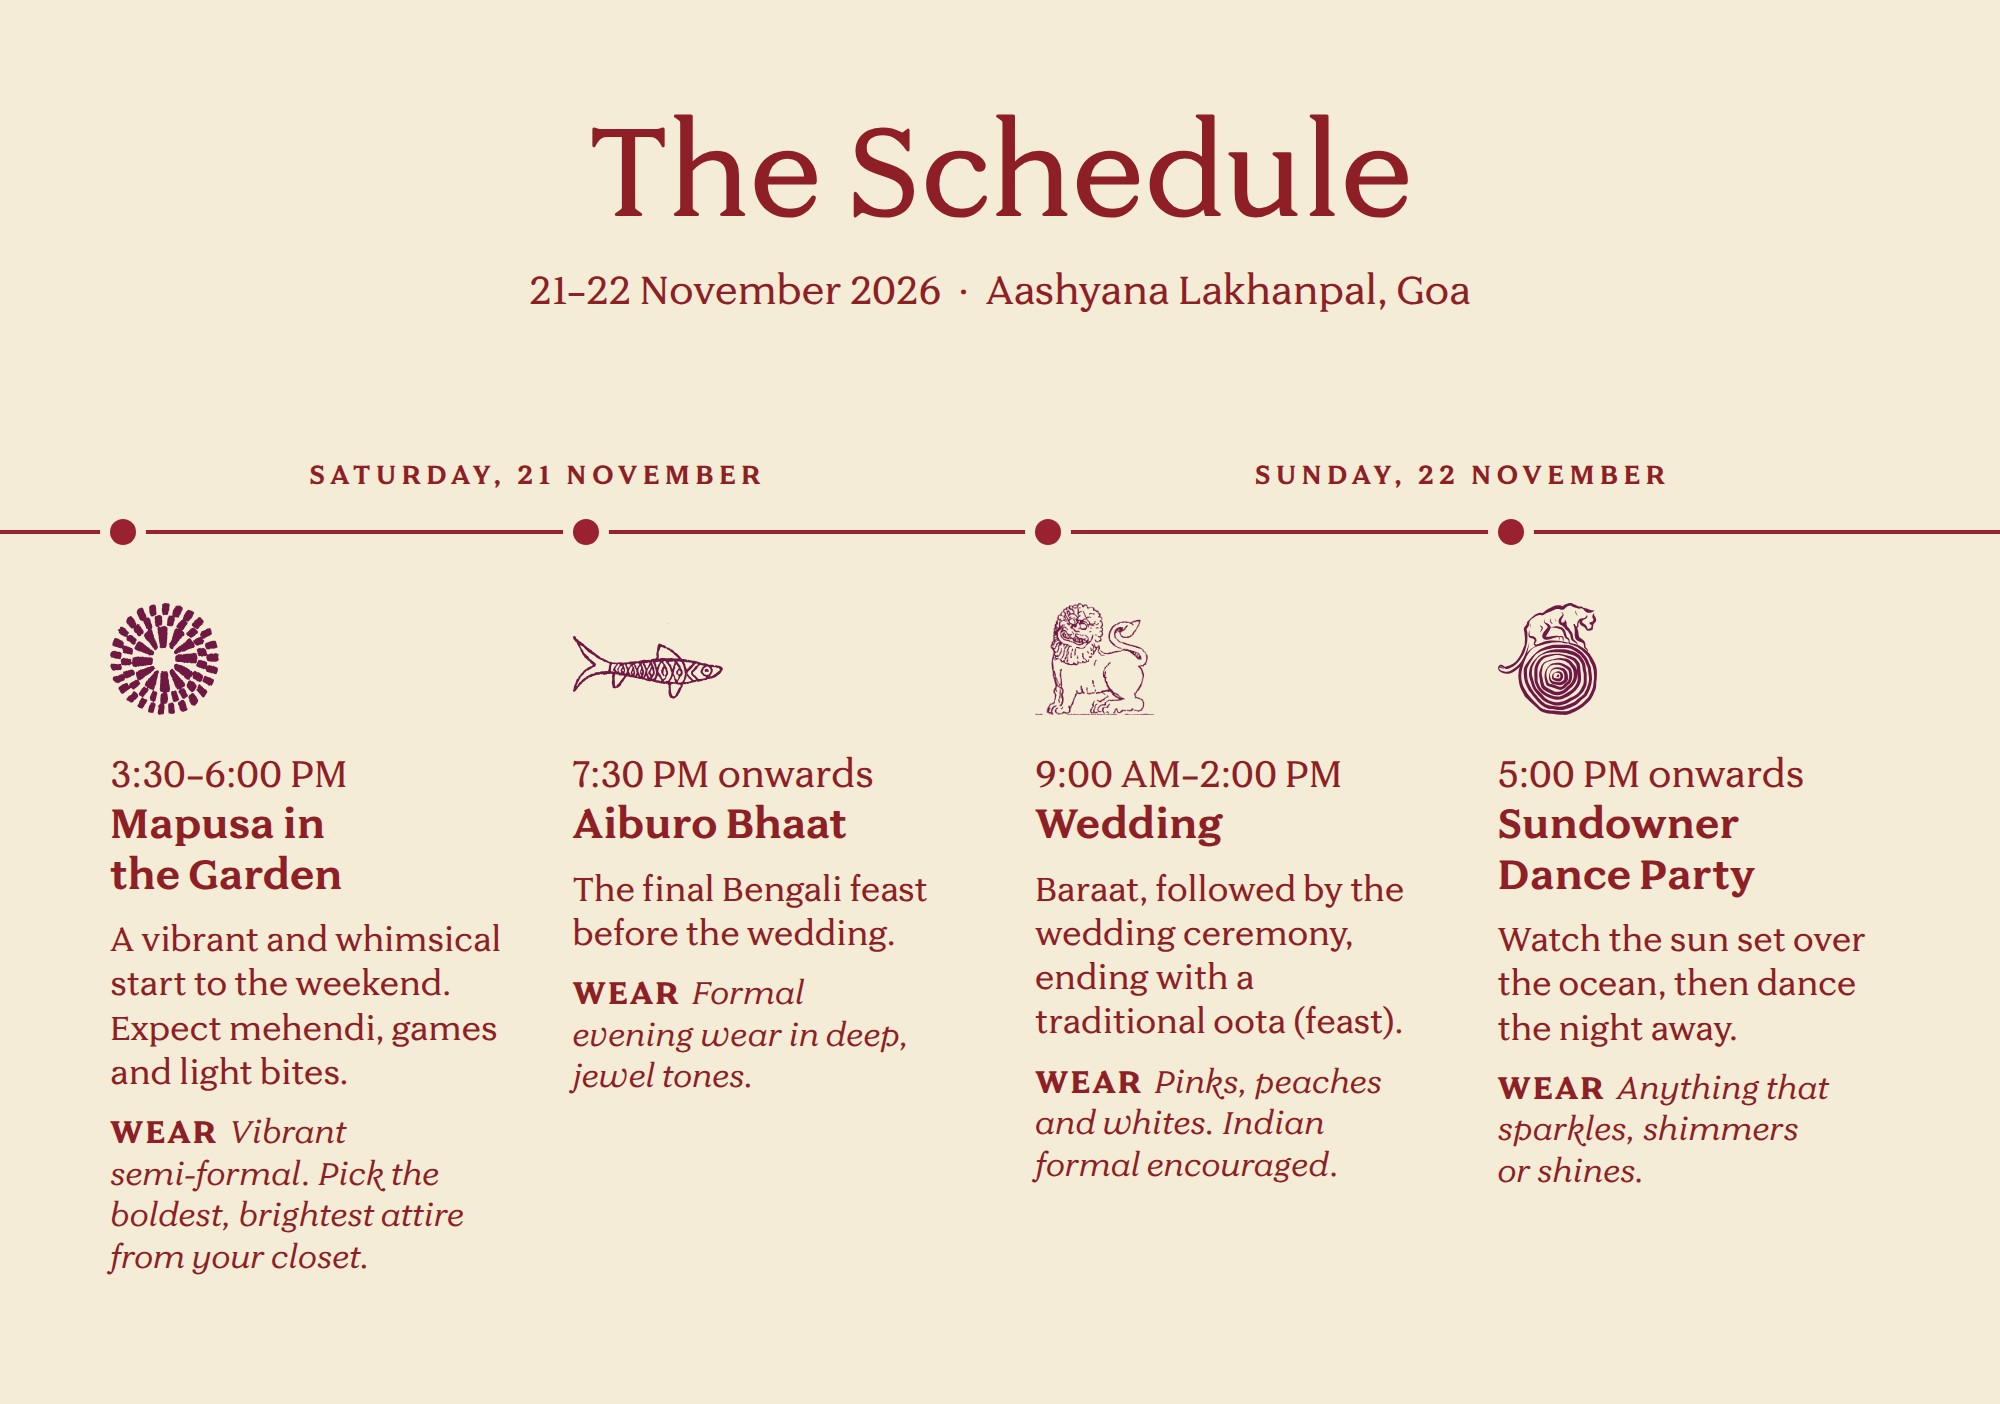
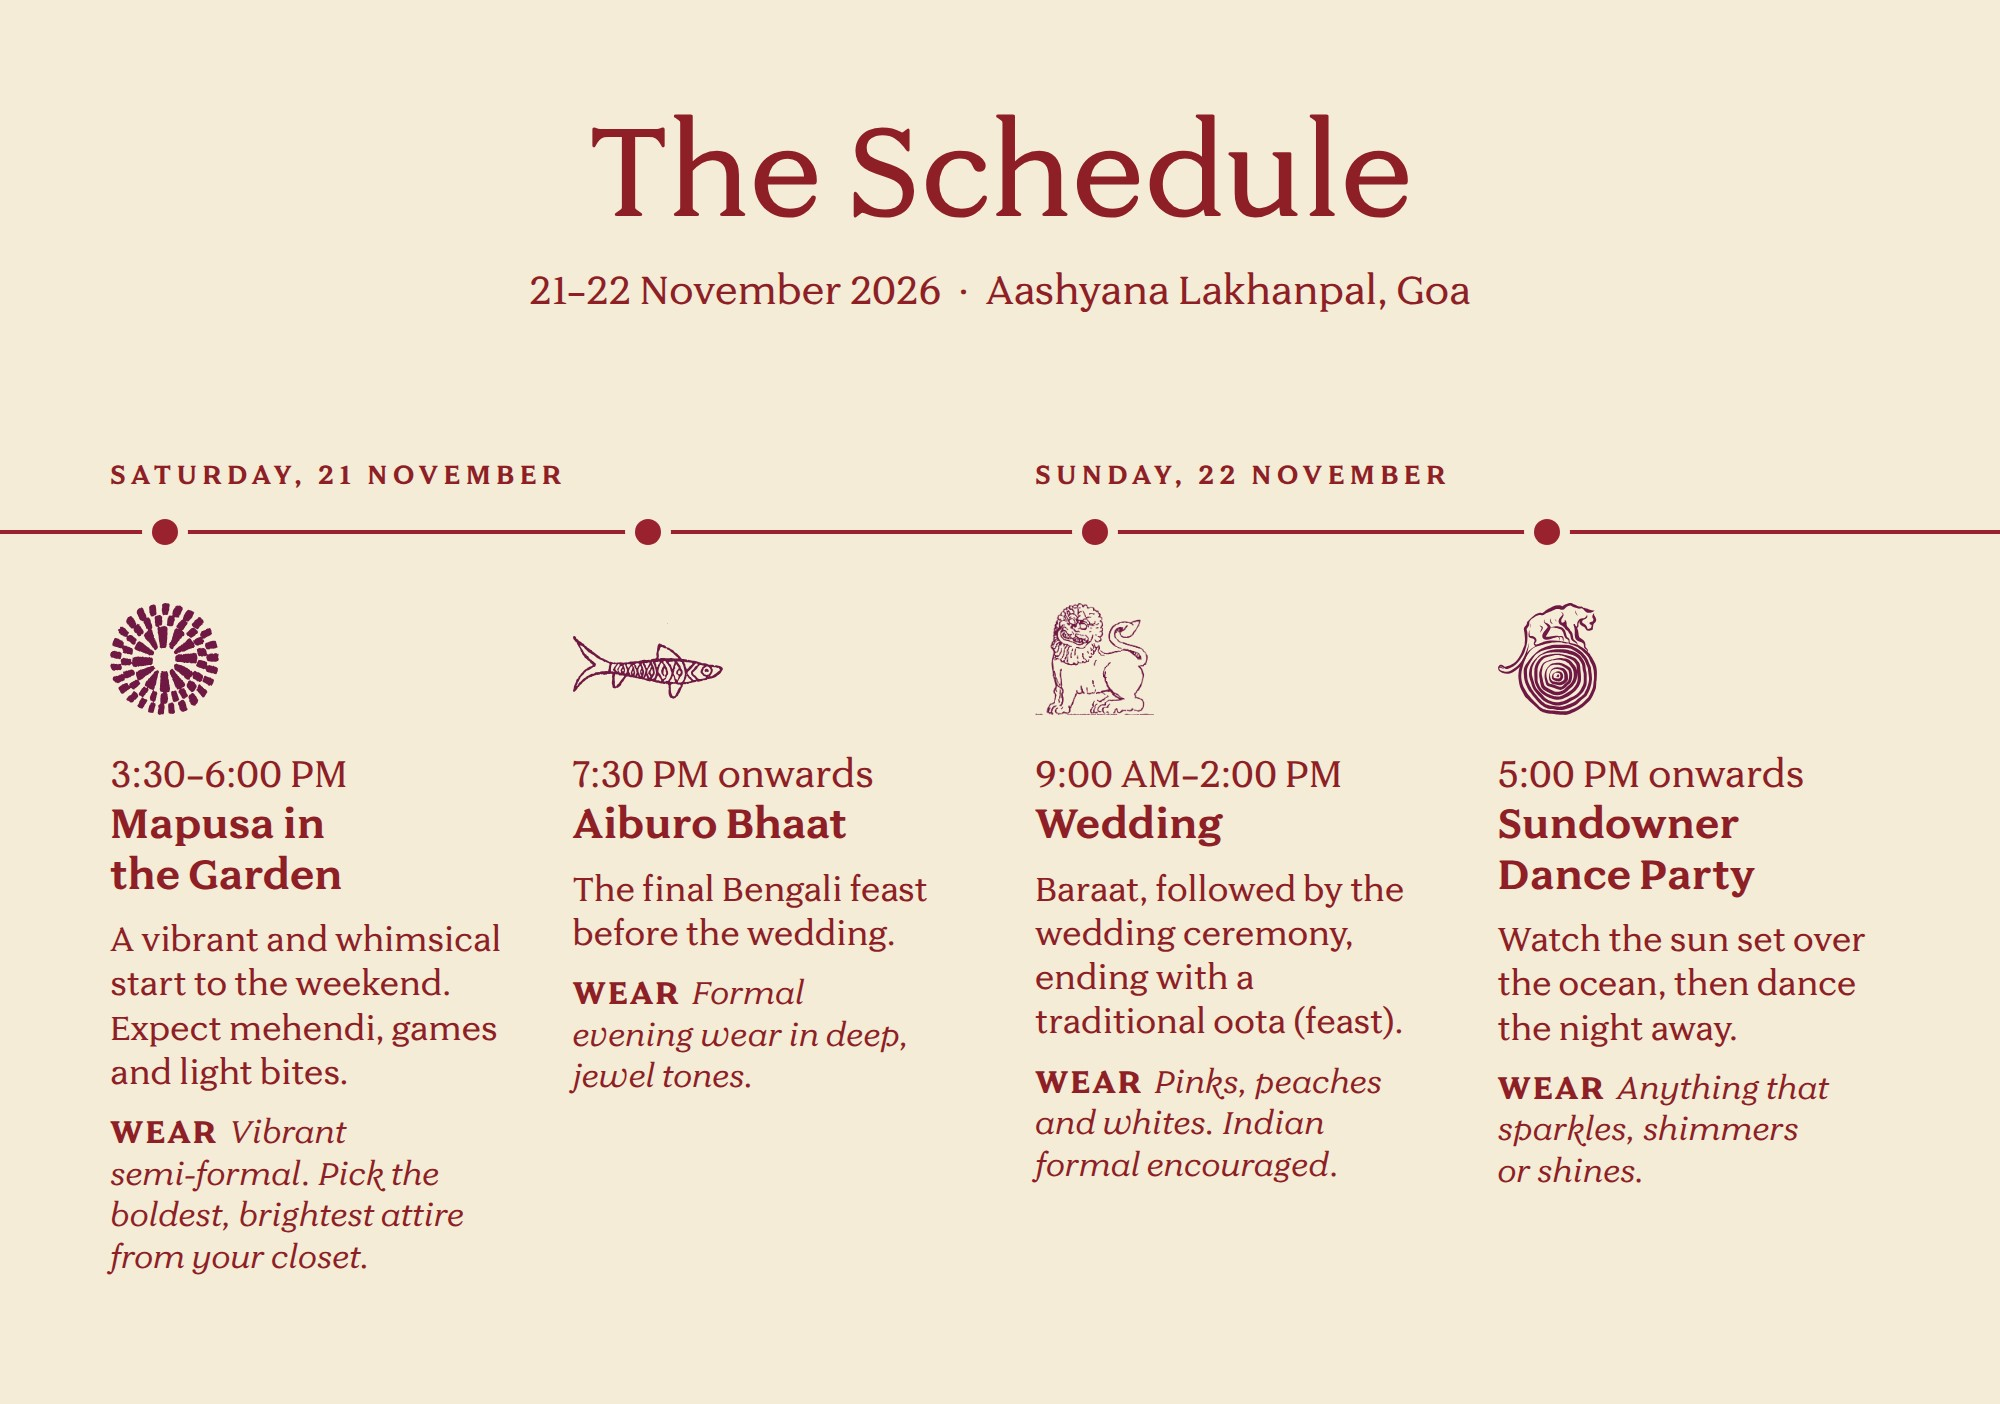
Left-align v3b's day headings and centre each dot on its motif
The Saturday and Sunday headings now start at the left edge of their
first event column. Each dot shares a marker with its motif, whose box
is sized to the artwork, so the dot sits over the motif's middle.

Claude-Session: https://claude.ai/code/session_01M927iqGqXpH2N1bkdGR9p5

diff --git a/design/schedule-card/v3b.html b/design/schedule-card/v3b.html
@@ -29,7 +29,6 @@
       display: grid;
       grid-template-columns: 1fr 1fr;
       column-gap: 70px;
-      text-align: center;
     }
     .line {
       position: absolute;
@@ -62,11 +61,16 @@
       background: var(--rule);
       box-shadow: 0 0 0 10px var(--cream);
     }
+    /* the dot and motif share a marker, so the dot sits over the
+       middle of the motif; each motif's box is sized to its artwork */
+    .marker {
+      display: flex;
+      flex-direction: column;
+      align-items: center;
+    }
     .motif {
-      width: 150px;
       height: 112px;
       margin: 58px 0 34px;
-      -webkit-mask-position: left center;
     }
     .time { font-size: 38px; }
     .name {
@@ -75,7 +79,7 @@
       text-wrap: balance;
     }
     /* v3b: everything in an event column sits flush left, from the
-       dot on the timeline down to the dress code */
+       day heading and motif down to the dress code */
     .time,
     .name,
     .desc,
@@ -113,32 +117,40 @@
 
     <div class="events">
       <div class="event">
-        <span class="dot"></span>
-        <span class="motif" style="-webkit-mask-image:url('../../Indian%20Motif%20Exports/Radial_2.svg')"></span>
+        <div class="marker">
+          <span class="dot"></span>
+          <span class="motif" style="width:109px;-webkit-mask-image:url('../../Indian%20Motif%20Exports/Radial_2.svg')"></span>
+        </div>
         <p class="time">3:30&ndash;6:00 PM</p>
         <h2 class="name">Mapusa in the Garden</h2>
         <p class="desc">A vibrant and whimsical start to the weekend. Expect mehendi, games and light bites.</p>
         <p class="wear"><span class="wear-label">Wear</span>Vibrant <span class="nowrap">semi-formal</span>. Pick the boldest, brightest attire from your closet.</p>
       </div>
       <div class="event">
-        <span class="dot"></span>
-        <span class="motif" style="-webkit-mask-image:url('../../Indian%20Motif%20Exports/Fish.svg')"></span>
+        <div class="marker">
+          <span class="dot"></span>
+          <span class="motif" style="width:150px;-webkit-mask-image:url('../../Indian%20Motif%20Exports/Fish.svg')"></span>
+        </div>
         <p class="time">7:30 PM onwards</p>
         <h2 class="name">Aiburo Bhaat</h2>
         <p class="desc">The final Bengali feast before the wedding.</p>
         <p class="wear"><span class="wear-label">Wear</span>Formal evening wear in deep, jewel tones.</p>
       </div>
       <div class="event">
-        <span class="dot"></span>
-        <span class="motif" style="-webkit-mask-image:url('../../Indian%20Motif%20Exports/Lion_2.png')"></span>
+        <div class="marker">
+          <span class="dot"></span>
+          <span class="motif" style="width:119px;-webkit-mask-image:url('../../Indian%20Motif%20Exports/Lion_2.png')"></span>
+        </div>
         <p class="time">9:00 AM&ndash;2:00 PM</p>
         <h2 class="name">Wedding</h2>
         <p class="desc">Baraat, followed by the wedding ceremony, ending with a traditional oota (feast).</p>
         <p class="wear"><span class="wear-label">Wear</span>Pinks, peaches and whites. Indian formal encouraged.</p>
       </div>
       <div class="event">
-        <span class="dot"></span>
-        <span class="motif" style="-webkit-mask-image:url('../../Indian%20Motif%20Exports/Tiger.svg')"></span>
+        <div class="marker">
+          <span class="dot"></span>
+          <span class="motif" style="width:99px;-webkit-mask-image:url('../../Indian%20Motif%20Exports/Tiger.svg')"></span>
+        </div>
         <p class="time">5:00 PM onwards</p>
         <h2 class="name">Sundowner Dance Party</h2>
         <p class="desc">Watch the sun set over the ocean, then dance the night away.</p>
